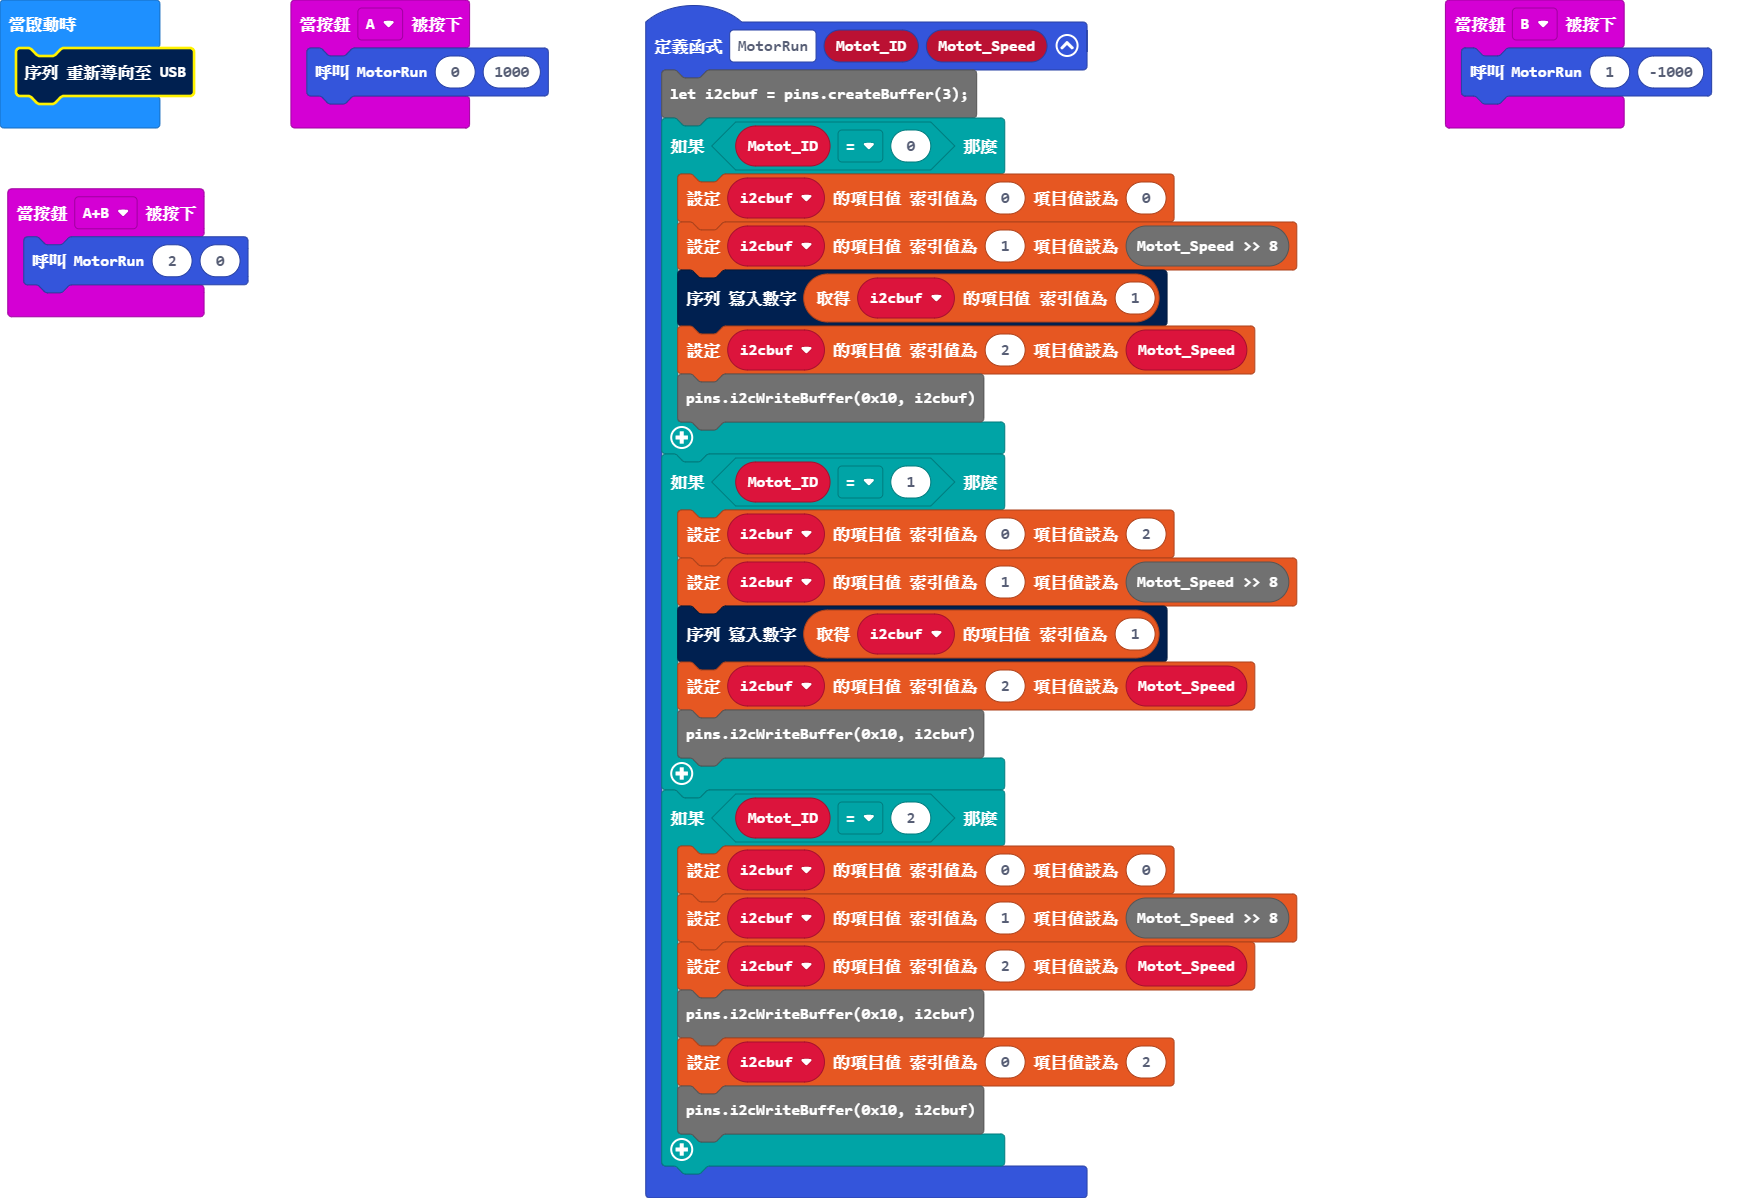
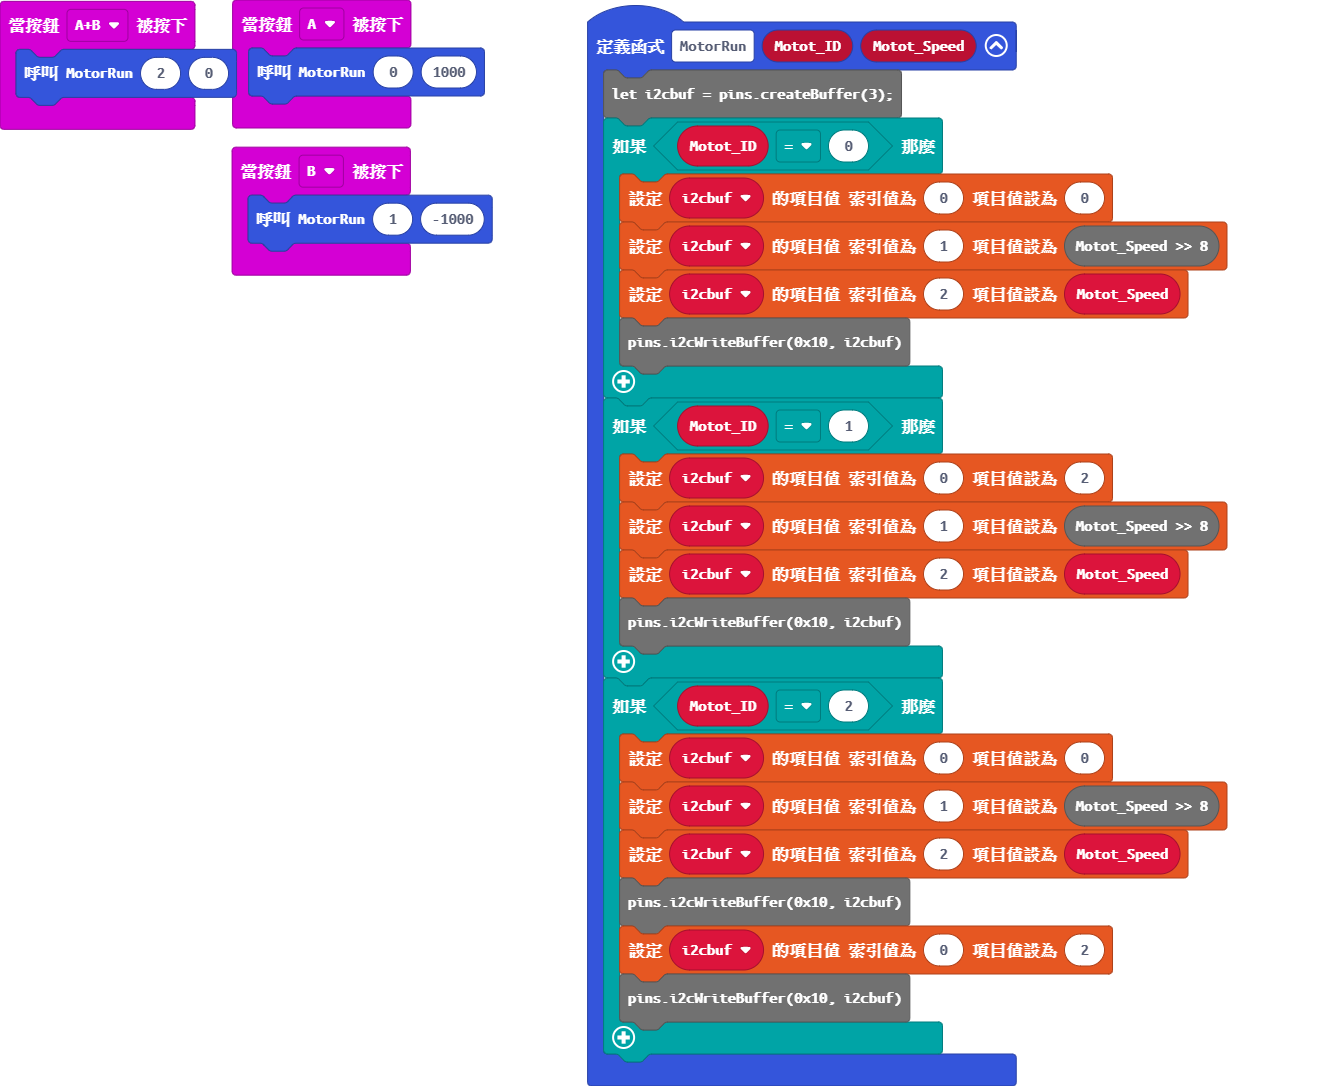
Update pxt.json, main.blocks, main.ts

diff --git a/main.ts b/main.ts
@@ -12,14 +12,12 @@ function MotorRun (Motot_ID: number, Motot_Speed: number) {
 if (Motot_ID == 0) {
         i2cbuf[0] = 0
         i2cbuf[1] = Motot_Speed >> 8
-        serial.writeNumber(i2cbuf[1])
         i2cbuf[2] = Motot_Speed
         pins.i2cWriteBuffer(0x10, i2cbuf)
     }
     if (Motot_ID == 1) {
         i2cbuf[0] = 2
         i2cbuf[1] = Motot_Speed >> 8
-        serial.writeNumber(i2cbuf[1])
         i2cbuf[2] = Motot_Speed
         pins.i2cWriteBuffer(0x10, i2cbuf)
     }
@@ -28,8 +26,7 @@ if (Motot_ID == 0) {
         i2cbuf[1] = Motot_Speed >> 8
         i2cbuf[2] = Motot_Speed
         pins.i2cWriteBuffer(0x10, i2cbuf)
-i2cbuf[0] = 2
+        i2cbuf[0] = 2
         pins.i2cWriteBuffer(0x10, i2cbuf)
     }
 }
-serial.redirectToUSB()
